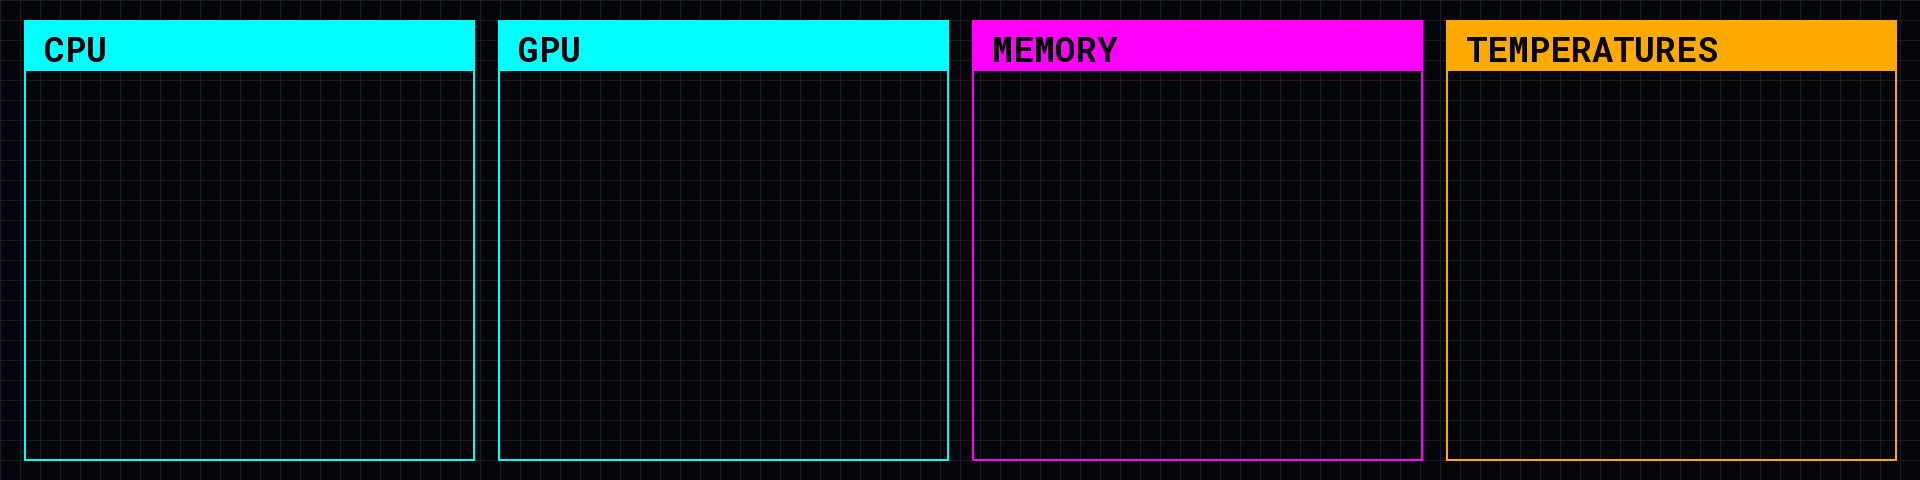
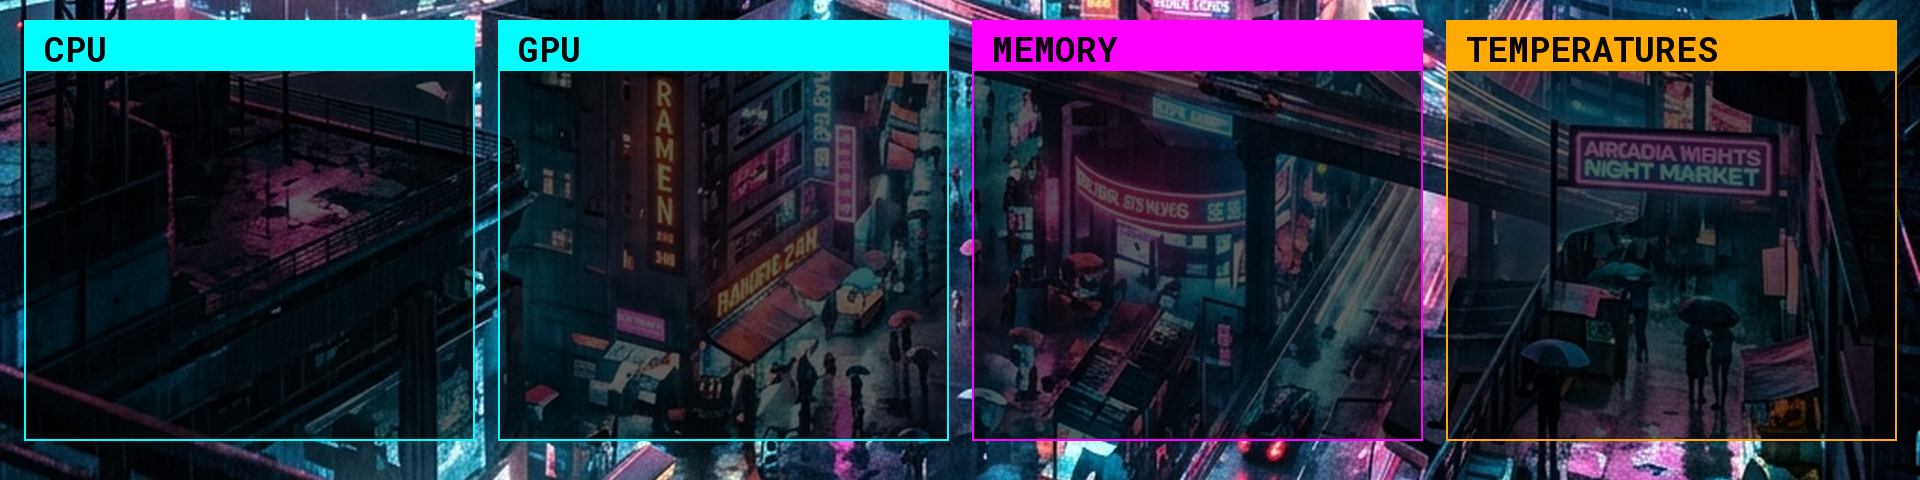
feat: integrate cyberpunk background and adjust ui overlays
- Dynamically generated and integrated an ultrawide cyberpunk cityscape wallpaper.

- Added logic to center crop the bottom of the wallpaper to capture the neon skyline.

- Restructured UI panes to draw onto a separate transparent alpha layer before compositing over the background, fixing an issue where PIL would bake them into solid black.

- Adjusted UI pane translucency to 160 (60% dark) to ensure bright neon backdrops don't wash out the white text.

- Added 20px bottom padding to the UI pane boxes to prevent them from bleeding past the physical bezel.

diff --git a/tools/build_overdrive_theme.py b/tools/build_overdrive_theme.py
@@ -31,14 +31,31 @@ def get_sys_names():
     return cpu, gpu
 
 def create_background(out_dir):
-    img = Image.new('RGB', (WIDTH, HEIGHT), color=BG_COLOR)
-    draw = ImageDraw.Draw(img)
+    # Try to load the cyberpunk background
+    bg_path = "source_bg_cyberpunk.png"  # set this to your source background image (relative to repo root)
     
-    # Grid lines
-    for x in range(0, WIDTH, 20):
-        draw.line([(x, 0), (x, HEIGHT)], fill=GRID, width=1)
-    for y in range(0, HEIGHT, 20):
-        draw.line([(0, y), (WIDTH, y)], fill=GRID, width=1)
+    try:
+        base_img = Image.open(bg_path).convert('RGBA')
+        # Crop the center to fit 1920x480
+        w, h = base_img.size
+        # scale to width=1920 first
+        target_w = WIDTH
+        target_h = int(h * (WIDTH / w))
+        base_img = base_img.resize((target_w, target_h), Image.Resampling.LANCZOS)
+        
+        # Now crop the bottom-center to get the cityscape
+        top = target_h - HEIGHT - 200 # slightly above bottom
+        top = max(0, top)
+        base_img = base_img.crop((0, top, WIDTH, top + HEIGHT))
+        
+        # Don't add a global overlay so the neon pops!
+        img = base_img
+        
+    except Exception as e:
+        print(f"Could not load wallpaper: {e}. Falling back to solid color.")
+        img = Image.new('RGBA', (WIDTH, HEIGHT), color=BG_COLOR)
+
+    draw = ImageDraw.Draw(img, 'RGBA')
         
     try:
         font_l = ImageFont.truetype("res/fonts/roboto-mono/RobotoMono-Bold.ttf", 35)
@@ -53,14 +70,23 @@ def create_background(out_dir):
         ("TEMPERATURES", 1446, AMBER)
     ]
     
+    # Create a separate layer to draw transparent shapes correctly
+    ui_overlay = Image.new('RGBA', (WIDTH, HEIGHT), (0, 0, 0, 0))
+    ui_draw = ImageDraw.Draw(ui_overlay)
+    
     for title, px, color in sections:
         pw = 450
-        draw.rectangle([px, 20, px + pw, HEIGHT - 20], outline=color, width=2)
-        draw.rectangle([px, 20, px + pw, 70], fill=color)
-        draw.text((px + 20, 25), title, fill=BG_COLOR, font=font_l)
+        # Draw translucent black rectangle for the pane body
+        ui_draw.rectangle([px, 20, px + pw, HEIGHT - 40], fill=(0, 0, 0, 160), outline=color, width=2)
+        # Draw solid color header
+        ui_draw.rectangle([px, 20, px + pw, 70], fill=color)
+        ui_draw.text((px + 20, 25), title, fill=BG_COLOR, font=font_l)
         
+    # Composite the UI over the background
+    img = Image.alpha_composite(img, ui_overlay)
+    
     os.makedirs(out_dir, exist_ok=True)
-    img.save(os.path.join(out_dir, "background.png"))
+    img.convert('RGB').save(os.path.join(out_dir, "background.png"))
     print("Background image generated.")
 
 def add_bg(d):

diff --git a/test_brightness.py b/test_brightness.py
@@ -1,0 +1,18 @@
+from PIL import Image
+import numpy as np
+
+img = Image.open("res/themes/Overdrive5080/background.png").convert('L')
+img = img.resize((1920, 1920))
+arr = np.array(img)
+
+best_top = 0
+best_avg = 0
+for t in range(0, 1920 - 480, 50):
+    slice_arr = arr[t:t+480, :]
+    avg = np.mean(slice_arr)
+    if avg > best_avg:
+        best_avg = avg
+        best_top = t
+    print(f"Top: {t}, Avg Brightness: {avg:.2f}")
+
+print(f"Best Top: {best_top} with Avg Brightness: {best_avg:.2f}")
